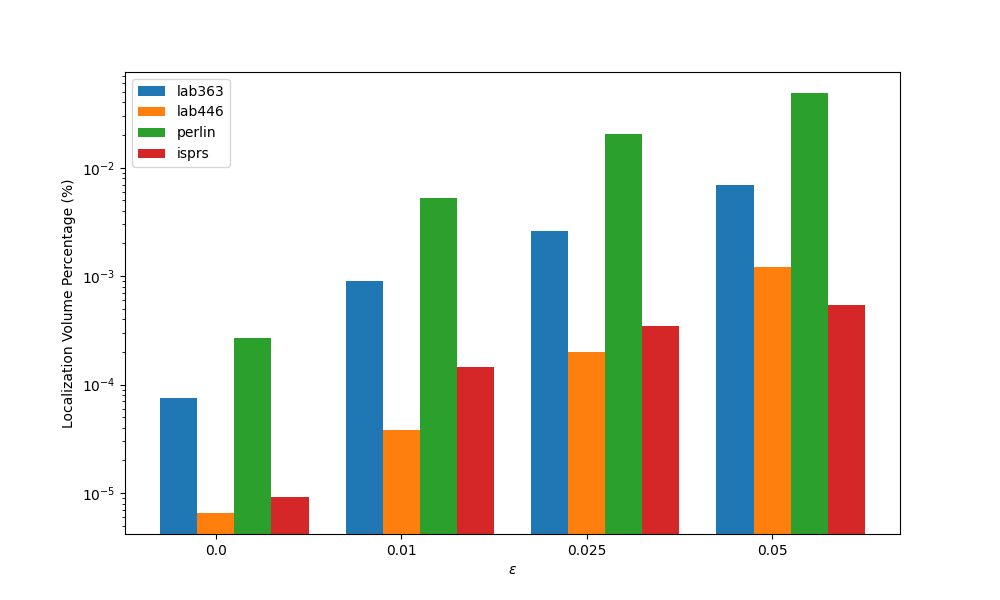
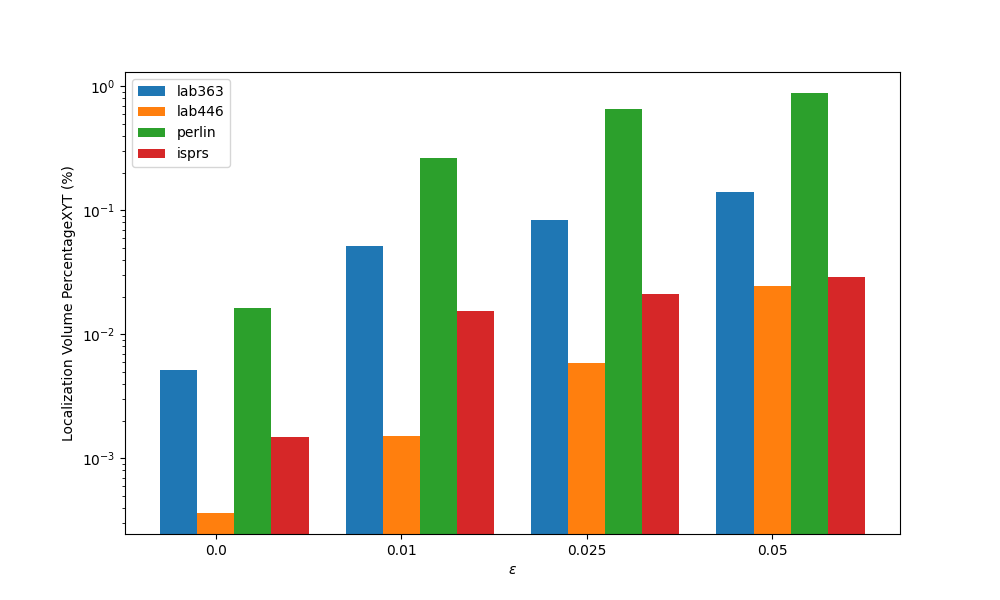
Add files via upload

diff --git a/python/figures/sim_figures.py b/python/figures/sim_figures.py
@@ -2,27 +2,35 @@ import pandas as pd
 import matplotlib.pyplot as plt
 import numpy as np
 
-CUR_PATH = r'python\figures\results_140924.csv'
-
-data = pd.read_csv(CUR_PATH)
+data = pd.read_csv(r'python\figures\results_v3.csv')
 
 def categorize_scene(environment):
     if 'lab363' in environment.lower():
-        return 'Lab 363'
+        return 'lab363'
     elif 'lab446' in environment.lower():
-        return 'Lab 446'
+        return 'lab446'
     elif 'perlin' in environment.lower():
-        return 'Perlin'
+        return 'perlin'
     else:
-        return 'ISPRS'
+        return 'isprs'
 
 data['scene_category'] = data['environment'].apply(categorize_scene)
-
 data['localizationVolumePercentage'] *= 100
 data['localizationVolumePercentageXYT'] *= 100
 
-scene_categories = ['Lab 363', 'Lab 446', 'Perlin', 'ISPRS']
-colors = ['#1f77b4', '#ff7f0e', '#2ca02c', '#d62728']
+scene_categories = ['lab363', 'lab446', 'perlin', 'isprs']
+
+columns_to_calculate = ['localizationVolumePercentage', 'localizationVolumePercentageXYT', 'time']
+
+for scene in scene_categories:
+    print(f"\nStatistics for {scene}:")
+    scene_data = data[data['scene_category'] == scene]
+    
+    for column in columns_to_calculate:
+        max_value = scene_data[column].max()
+        min_value = scene_data[column].min()
+        avg_value = scene_data[column].mean()
+        print(f"{column} - Max: {max_value:.2f}, Min: {min_value:.2f}, Avg: {avg_value:.2f}")
 
 unique_k_values = np.sort(data['k'].unique())
 
@@ -35,61 +43,35 @@ total_samples = len(data)
 for i, scene in enumerate(scene_categories):
     scene_data = data[data['scene_category'] == scene]
     num_samples_scene = len(scene_data)
-    grouped_data_k = scene_data.groupby('k')['localizationVolumePercentage'].sum()
+    grouped_data_k = scene_data.groupby('k')['localizationVolumePercentageXYT'].sum()
     grouped_data_k = grouped_data_k.reindex(unique_k_values, fill_value=0)
     normalized_data_k = (grouped_data_k / num_samples_scene) * (num_samples_scene / total_samples)
-    plt.bar(x_values + i * bar_width, normalized_data_k.values, width=bar_width, label=scene, color=colors[i])
+    plt.bar(x_values + i * bar_width, normalized_data_k.values, width=bar_width, label=scene, color=['#1f77b4', '#ff7f0e', '#2ca02c', '#d62728'][i])
 
 plt.yscale('log')
 plt.xlabel('k')
-plt.ylabel('Normalized Average Localization Volume Percentage (%) [Log Scale]')
-plt.title('Normalized Average Localization Volume Percentage Along k (by Scene)')
+plt.ylabel('Localization Volume PercentageXYT (%)')
 plt.xticks(x_values + bar_width, unique_k_values)
 plt.legend()
 plt.show()
 
+unique_epsilon_values = np.sort(data['epsilon'].unique())
+
 plt.figure(figsize=(10, 6))
+bar_width = 0.2
+x_values = np.arange(len(unique_epsilon_values))
 
 for i, scene in enumerate(scene_categories):
     scene_data = data[data['scene_category'] == scene]
-    grouped_data_k = scene_data.groupby('k')['localizationVolumePercentage'].mean()
-    grouped_data_k = grouped_data_k.reindex(unique_k_values, fill_value=0)
-    plt.plot(unique_k_values, grouped_data_k.values, label=scene, color=colors[i], marker='o')
+    num_samples_scene = len(scene_data)
+    grouped_data_epsilon = scene_data.groupby('epsilon')['localizationVolumePercentageXYT'].sum()
+    grouped_data_epsilon = grouped_data_epsilon.reindex(unique_epsilon_values, fill_value=0)
+    normalized_data_epsilon = (grouped_data_epsilon / num_samples_scene) * (num_samples_scene / total_samples)
+    plt.bar(x_values + i * bar_width, normalized_data_epsilon.values, width=bar_width, label=scene, color=['#1f77b4', '#ff7f0e', '#2ca02c', '#d62728'][i])
 
-plt.xlabel('k')
-plt.ylabel('Localization Volume Percentage (%)')
-plt.title('Localization Volume Percentage Along k (by Scene)')
-plt.xticks(unique_k_values)
+plt.yscale('log')
+plt.xlabel('$\epsilon$')
+plt.ylabel('Localization Volume PercentageXYT (%)')
+plt.xticks(x_values + bar_width, unique_epsilon_values)
 plt.legend()
 plt.show()
-
-plt.figure(figsize=(10, 6))
-
-for i, scene in enumerate(scene_categories):
-    scene_data = data[data['scene_category'] == scene]
-    time_data_k = scene_data.groupby('k')['time'].mean()
-    time_data_k = time_data_k.reindex(unique_k_values, fill_value=0)
-    plt.plot(unique_k_values, time_data_k.values, label=scene, color=colors[i], marker='o')
-
-plt.xlabel('k')
-plt.ylabel('Average Time Taken (seconds)')
-plt.title('Runtime Comparison: Time Taken vs k (by Scene)')
-plt.xticks(unique_k_values)
-plt.legend()
-plt.grid(True)
-plt.show()
-
-summary_table = pd.DataFrame(index=['Max Time (s)', 'Min Time (s)', 'Average Time (s)'])
-
-for scene in scene_categories:
-    scene_data = data[data['scene_category'] == scene]
-    max_time = scene_data['time'].max()
-    min_time = scene_data['time'].min()
-    avg_time = scene_data['time'].mean()
-    summary_table[scene] = [max_time, min_time, avg_time]
-
-latex_code = summary_table.style.to_latex()
-
-# with open('summary_table.tex', 'w') as f:
-#     f.write(latex_code)
-
